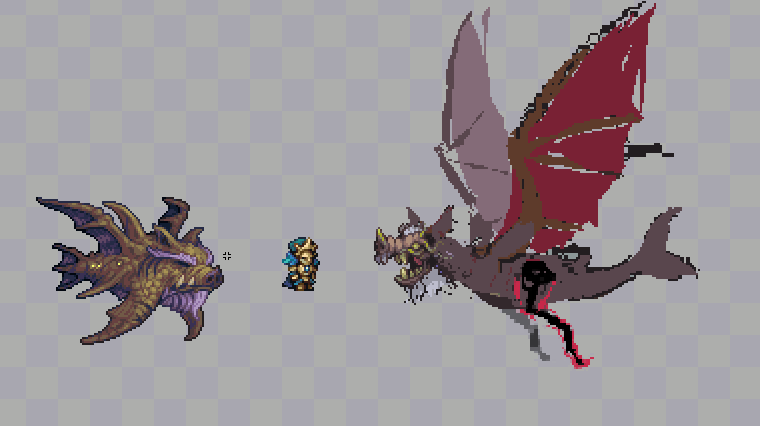
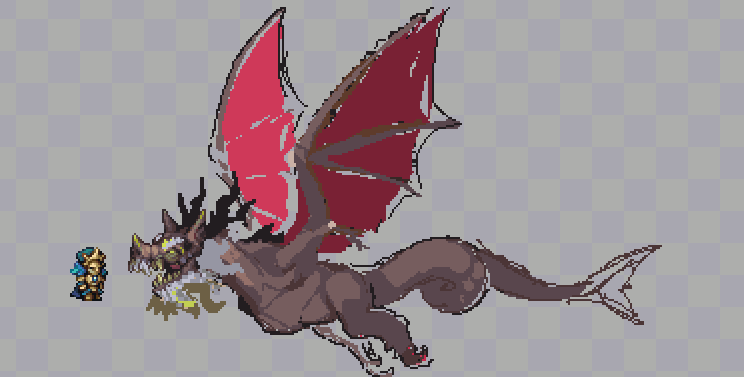
9/8

diff --git a/Sep2024/Sep2024.md b/Sep2024/Sep2024.md
@@ -10,12 +10,27 @@
 - 绝路P(9/3)
   从神吞后移动到石巨人后
   ![alt text](../Themed/Weapon_Rework/image_rubicoP.png)
+- 元素锯子(译名呢???)(9/6)
+  ![alt text](../Themed/Weapon_Rework/image_elementalSaw.gif)
+  ![alt text](../Themed/Weapon_Rework/text_elementalSaw.png)
+- 氦闪(9/7)
+  ![alt text](../Themed/Weapon_Rework/image_heliumFlash.png)
+- 制裁大剑和携序之剑也被重做(暂无视频)(9/7)
+  ![alt text](../Themed/Weapon_Rework/text_Xyk.png)
+- 凝胶波刃和梭鱼枪也被重做了(9/7)
+  ![alt text](../Themed/Weapon_Rework/text_Shayy.png)
+  凝胶波刃的弹幕更大,更快,能穿透,Shayy认为它针对肉山很强(9/7)
+  ![alt text](../Themed/Weapon_Rework/text_geliticBlade.png)
+  梭鱼枪现在有4或5个射弹,而且伤害更快,有一定偏移(旧闻:它已经被移到月后)(9/7)
+  ![alt text](../Themed/Weapon_Rework/text_barracuda.png)
+- 鬼妖村正的贴图已经就位,Shayy计划做一个演示视频(注:Shayy是社交媒体的运营者,之前的预告片也是他做的)(9/7)
+  ![alt text](../Themed/Weapon_Rework/text_murasama.png)
 
 # Boss重绘
 ## 始源妖龙(9/3)
   ![alt text](../Themed/Wyrm/image_Wyrm.png)
 ## 硫海遗爵
-- (9/4)
+- (9/8)
   ![alt text](../Themed/Old_Duke/image_oldDuke.png)
 - 老猪的设计参考,会给它日本龙的胡须等细节(因为它们都与天气控制相关)(9/4)
   ![alt text](../Themed/Old_Duke/text_oldDukeDesign.png)
@@ -97,6 +112,10 @@
     ![alt text](../Themed/Others/image_EoCBar.png)
 
 # 沉沦海
+- 沉沦海的大小大大增加了(9/7)
+  ![alt text](text_scale.png)
+- 会包括一个"蛤区"和一个岩浆区(9/2)
+  ![alt text](text_zones.png)
 
 ## 生物
 - 每种小鱼有不同的游泳动画,已经放出一种(9/6)
@@ -107,3 +126,11 @@
   ![alt text](../Themed/SSO/text_Tyrian.png)
 - 沉沦海的部分内容将会变成卧龙海马锁而非荒灾锁(再次确认了卧龙海马MiniBoss的存在)(9/6)
   ![alt text](../Themed/SSO/text_cnidrionLock.png)
+- 会有一种三头海德拉,一个头射水矢,一个头射岩浆,一个头咬人.被水和岩浆射中会变成黑曜石,受到大量伤害.(9/2)
+  ![alt text](text_hydra.png)
+- 除了拾荒蟹以外的海岸生物:Mirage Newt(制造蜃气的蝾螈?) Pumper Prawn(超大肉食虾?)(9/2)
+  ![alt text](text_shoreCreatures.png)
+
+# 其他
+- 计划给宇宙锭和金源锭设计工具(9/2)
+  ![alt text](text_tools.png)

diff --git a/Themed/SSO/SSO.md b/Themed/SSO/SSO.md
@@ -3,6 +3,10 @@
 - 将会在沉沦海和沙漠之间加入新的过渡生物群系,以不死战士为主要敌人,目前被Triangle称作"the shores",下面采用这个称呼. 
 - 将会有3个miniboss,包括重做后的巨像蛤,卧龙海马.*来源确认*
 - 会彻底平衡召唤师职业,并且有新的鞭子和饰品. *来源确认*
+- 沉沦海的大小大大增加了(9/7)
+  ![alt text](text_scale.png)
+- 会包括一个"蛤区"和一个岩浆区(9/2)
+  ![alt text](text_zones.png)
 
 # 大体进展
 - 有3把新鞭子,以及摸了(8/14)
@@ -16,11 +20,15 @@
 ## 风暴蚁狮
 - 风暴蚁狮将会有四种变种，分别对应四种蚁狮变种
   ![风暴蚁狮聊天](text_antlion.png)
+## 海岸生物
+- 螃蟹商人/拾荒者,可用珍珠交换来自已死亡战士的战利品
+  ![Scavengers聊天](text_scavenger.png)
+- 其他生物:Mirage Newt(制造蜃气的蝾螈?) Pumper Prawn(超大肉食虾?)(9/2)
+  ![alt text](text_shoreCreatures.png)
+
 ## 沉沦海生物
 - 骸骨制的水母状生物将出现在the shores
   ![Skull jellyfish聊天](text_skullJellyfish.png)
-- 螃蟹商人/拾荒者,可用珍珠交换来自已死亡战士的战利品
-  ![Scavengers聊天](text_scavenger.png)
 - 水母是在焚海事件死者的灵魂变的
   ![alt text](image_ghostBell.png)
 - 如果你冒犯遗体或墓碑,水母会被激怒并攻击你
@@ -40,6 +48,8 @@
 - 有一张演示图*来源确认*
 - 暂时还没有画的几种"大家伙":肉食虾,两种新的鲨,活着的菌生蟹(更小的变种),海德拉(8/6)
   ![alt text](text_bigGuys.png)
+- 会有一种三头海德拉,一个头射水矢,一个头射岩浆,一个头咬人.被水和岩浆射中会变成黑曜石,受到大量伤害.(9/2)
+  ![alt text](text_hydra.png)
   
 # 更新时间
 - 可能今年内都不会出(准确度?它们自己都不一定知道)(8/7)

diff --git a/Themed/Weapon_Rework/Weapon_Rework.md b/Themed/Weapon_Rework/Weapon_Rework.md
@@ -1,5 +1,7 @@
 # General
 基本上asfl都会搬运
+- 劳模Xyk自从小南瓜更新后,已经制作了32个重做了
+  ![alt text](text_Xyk2.png)
 
 - 衍曜旋刃(9/3)
   ![alt text](image_refractionRotor.png)
@@ -12,3 +14,18 @@
 - 绝路P(9/3)
   从神吞后移动到石巨人后
   ![alt text](image_rubicoP.png)
+- 元素锯子(译名呢???)(9/6)
+  ![alt text](image_elementalSaw.gif)
+  ![alt text](text_elementalSaw.png)
+- 氦闪(9/7)
+  ![alt text](image_heliumFlash.png)
+- 制裁大剑和携序之剑也被重做(但是暂无视频)(9/7)
+  ![alt text](text_Xyk.png)
+- 凝胶波刃和梭鱼枪也被重做了(9/7)
+  ![alt text](text_Shayy.png)
+  凝胶波刃的弹幕更大,更快,能穿透,Shayy认为它针对肉山很强(9/7)
+  ![alt text](text_geliticBlade.png)
+  梭鱼枪现在有4或5个射弹,而且伤害更快,有一定偏移(旧闻:它已经被移到月后)(9/7)
+  ![alt text](text_barracuda.png)
+- 鬼妖村正的贴图已经就位,Shayy计划做一个演示视频(注:Shayy是社交媒体的运营者,之前的预告片也是他做的)(9/7)
+  ![alt text](text_murasama.png)

diff --git a/Themed/Old_Duke/Old_Duke.md b/Themed/Old_Duke/Old_Duke.md
@@ -1,6 +1,6 @@
 # General
 
-- (9/7)
+- (9/8)
   ![alt text](image_oldDuke.png)
 - 老猪的设计参考,会给它日本龙的胡须等细节(因为它们都与天气控制相关)(9/4)
   ![alt text](text_oldDukeDesign.png)

diff --git a/Themed/Others/others.md b/Themed/Others/others.md
@@ -41,3 +41,7 @@
     ![alt text](image_ceaselessVoidBar.png)
   + 克眼
     ![alt text](image_EoCBar.png)
+
+# 工具
+- 计划给宇宙锭和金源锭设计工具(9/2)
+  ![alt text](text_tools.png)
